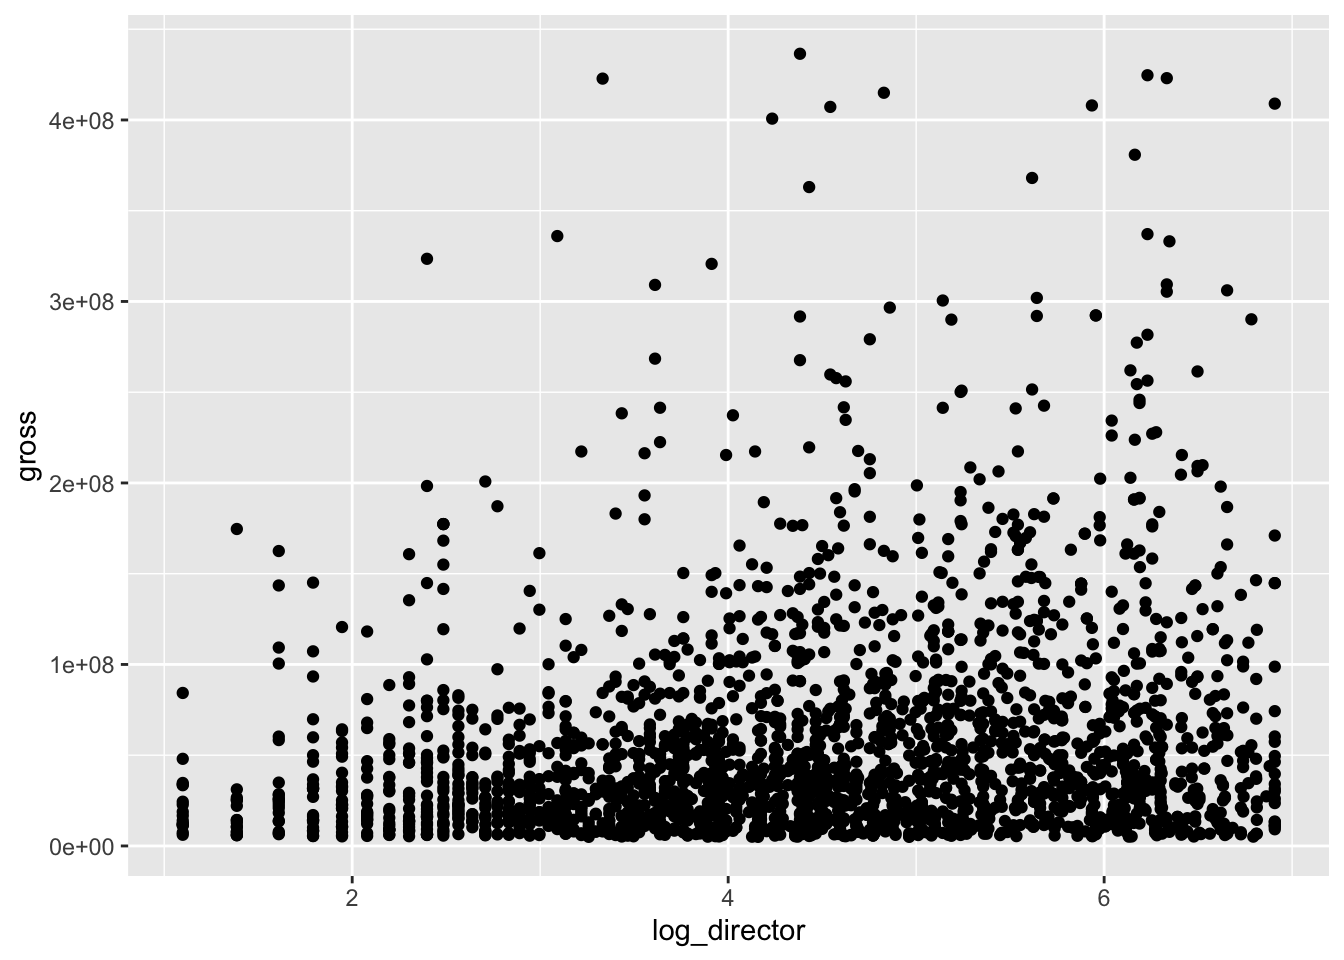
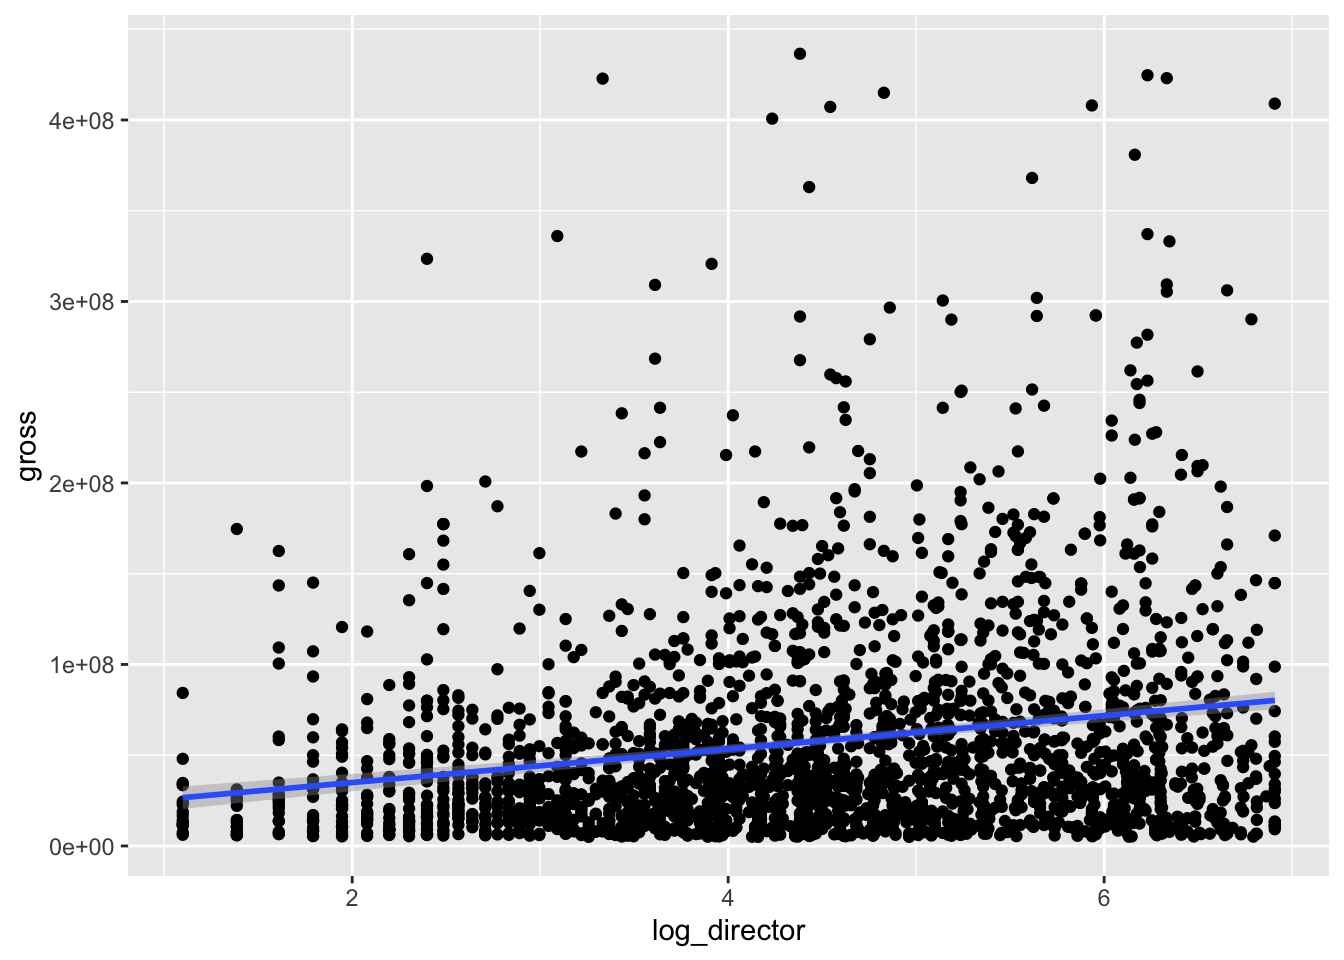
update

Changed region(s): [[0.5312, 0.7188, 0.9688, 0.7812], [0.125, 0.7812, 0.5312, 0.8438]]

diff --git a/some-plots.html b/some-plots.html
@@ -334,8 +334,18 @@ dataset %&gt;%
   mutate(log_director = log(director_facebook_likes)) %&gt;% 
   filter(gross &gt; 5000000 &amp; log_director &gt; 1 &amp; log_director &lt; 7 ) %&gt;% 
   ggplot(aes(x = log_director, y = gross)) +
-  geom_point()</code></pre>
+  geom_point()+
+  geom_smooth(method=&#39;lm&#39;, se=TRUE)</code></pre>
+<pre><code>## `geom_smooth()` using formula &#39;y ~ x&#39;</code></pre>
 <p><img src="some-plots_files/figure-html/unnamed-chunk-1-1.png" width="672" /></p>
+<pre class="r"><code>dataset %&gt;% 
+  filter(director_facebook_likes != 0) %&gt;% 
+  mutate(log_director = log(director_facebook_likes),
+         log_gross = log(gross)) %&gt;% 
+  filter(gross &gt; 5000000 &amp; log_director &gt; 1 &amp; log_director &lt; 7 ) %&gt;% 
+  ggplot(aes(x = log_director, y = log_gross)) +
+  geom_hex()</code></pre>
+<p><img src="some-plots_files/figure-html/unnamed-chunk-1-2.png" width="672" /></p>
 <pre class="r"><code> # From above plot we can see that there is no direct association between director&#39;s facebook like and movie&#39;s gross</code></pre>
 <p>explore the characteristics of some variables</p>
 <pre class="r"><code>ep_dataset %&gt;% 
@@ -364,7 +374,7 @@ dataset %&gt;%
     xlab(&quot;Facebook likes&quot;) +
     ylab(&quot;Log of Facebook likes&quot;)</code></pre>
 <p><img src="some-plots_files/figure-html/unnamed-chunk-2-1.png" width="672" /></p>
-<p>explore the relationship between move genre and its duration</p>
+<p>explore the relationship between move genre and its duration(don’t need)</p>
 <pre class="r"><code>orderds = ep_dataset %&gt;% 
   select(duration,genres) %&gt;% 
   distinct() 
@@ -407,7 +417,6 @@ orderds %&gt;%
   ggplot( aes(x=reorder(genres,-budget, na.rm = TRUE), y=budget, fill=genres)) +
     geom_boxplot() +
     scale_fill_viridis(discrete = TRUE, alpha=0.6) +
-    geom_jitter(color=&quot;black&quot;, size=0.4, alpha=0.9) +
     theme(
       legend.position=&quot;none&quot;,
       plot.title = element_text(size=11)
@@ -417,6 +426,25 @@ orderds %&gt;%
     xlab(&quot;Movie genre&quot;) +
     ylab(&quot;Budget of movie&quot;)   </code></pre>
 <p><img src="some-plots_files/figure-html/unnamed-chunk-6-1.png" width="672" /></p>
+<pre class="r"><code>ep_dataset %&gt;% 
+  select(budget, genres) %&gt;% 
+  distinct() %&gt;% 
+  filter(budget&lt;3e+08) %&gt;% 
+  filter(genres != &quot;News&quot;,
+         genres !=&quot;Film-Noir&quot;) %&gt;% 
+  mutate(log_budget = log(budget)) %&gt;% 
+  ggplot( aes(x=reorder(genres,-budget, na.rm = TRUE), y=log_budget, fill=genres)) +
+    geom_boxplot() +
+    scale_fill_viridis(discrete = TRUE, alpha=0.6) +
+    theme(
+      legend.position=&quot;none&quot;,
+      plot.title = element_text(size=11)
+    ) +
+    theme(axis.text.x = element_text(angle=90, hjust=1, vjust=1))+
+    ggtitle(&quot;A boxplot with budget&quot;) +
+    xlab(&quot;Movie genre&quot;) +
+    ylab(&quot;Budget of movie&quot;)   </code></pre>
+<p><img src="some-plots_files/figure-html/unnamed-chunk-6-2.png" width="672" /></p>
 <p>association between budget and gross</p>
 <pre class="r"><code>ep_dataset %&gt;% 
   select(budget, gross, genres) %&gt;% 
@@ -424,7 +452,75 @@ orderds %&gt;%
   ggplot(aes(x=budget, y=gross)) +
   geom_hex()</code></pre>
 <p><img src="some-plots_files/figure-html/unnamed-chunk-7-1.png" width="672" /></p>
-<p>ˆ</p>
+<p>number of critics for reviews and gross</p>
+<pre class="r"><code>ep_dataset %&gt;% 
+  select(num_critic_for_reviews , gross) %&gt;% 
+  distinct() %&gt;% 
+  mutate(gross = log(gross)) %&gt;% 
+  ggplot(aes(x = num_critic_for_reviews, y = gross)) +
+  geom_hex()</code></pre>
+<pre><code>## Warning: Removed 1 rows containing non-finite values (stat_binhex).</code></pre>
+<p><img src="some-plots_files/figure-html/unnamed-chunk-8-1.png" width="672" /></p>
+<p>number of voted users and gross</p>
+<pre class="r"><code>ep_dataset %&gt;% 
+  select(gross, num_voted_users) %&gt;% 
+  distinct() %&gt;% 
+  mutate(gross = log(gross)) %&gt;% 
+  ggplot(aes(x = num_voted_users, y = gross)) +
+  geom_point(
+    color=&quot;black&quot;,
+        fill=&quot;#69b3a2&quot;,
+        shape=22,
+        alpha=0.5,
+        size=3,
+        stroke = 1
+        ) +
+  theme_ipsum()</code></pre>
+<p><img src="some-plots_files/figure-html/unnamed-chunk-9-1.png" width="672" /></p>
+<p>gross and facebook likes</p>
+<pre class="r"><code>ep_dataset %&gt;% 
+  select(cast_total_facebook_likes,gross, genres) %&gt;% 
+  distinct() %&gt;% 
+  mutate(cast_total_facebook_likes = log(cast_total_facebook_likes)) %&gt;% 
+  ggplot(aes(x = cast_total_facebook_likes, y = gross,color = genres )) +
+  geom_point() +
+  coord_cartesian()</code></pre>
+<p><img src="some-plots_files/figure-html/unnamed-chunk-10-1.png" width="672" /></p>
+<pre class="r"><code>ep_dataset %&gt;% 
+  select(movie_facebook_likes,gross, genres) %&gt;% 
+  mutate(gross = log(gross)) %&gt;% 
+  ggplot(aes(x = movie_facebook_likes, y = gross, color = genres)) +
+  geom_point( 
+    color=&quot;orange&quot;,
+    fill=&quot;#69b3a2&quot;,
+    shape=21,
+    alpha=0.3,
+    size=2,
+    stroke = 1)</code></pre>
+<p><img src="some-plots_files/figure-html/unnamed-chunk-10-2.png" width="672" /></p>
+<pre class="r"><code>ep_dataset %&gt;% 
+  select(actor_1_facebook_likes, actor_2_facebook_likes, actor_3_facebook_likes, gross) %&gt;%
+  distinct() %&gt;% 
+  pivot_longer(
+    actor_1_facebook_likes:actor_3_facebook_likes,
+    names_to = &quot;actor&quot;,
+    values_to = &quot;facebook_likes&quot;
+  ) %&gt;% 
+  mutate(
+    actor = as.factor(actor),
+    gross = log(gross)
+  ) %&gt;% 
+  filter(facebook_likes &lt;0.5e+05) %&gt;% 
+  ggplot(aes(x=facebook_likes, y = gross, color = actor)) +
+  geom_point(
+        fill=&quot;#69b3a2&quot;,
+        shape=22,
+        alpha=0.5,
+        size=2,
+        stroke = 1
+        ) +
+    theme_ipsum()</code></pre>
+<p><img src="some-plots_files/figure-html/unnamed-chunk-10-3.png" width="672" /></p>
 
 
 
